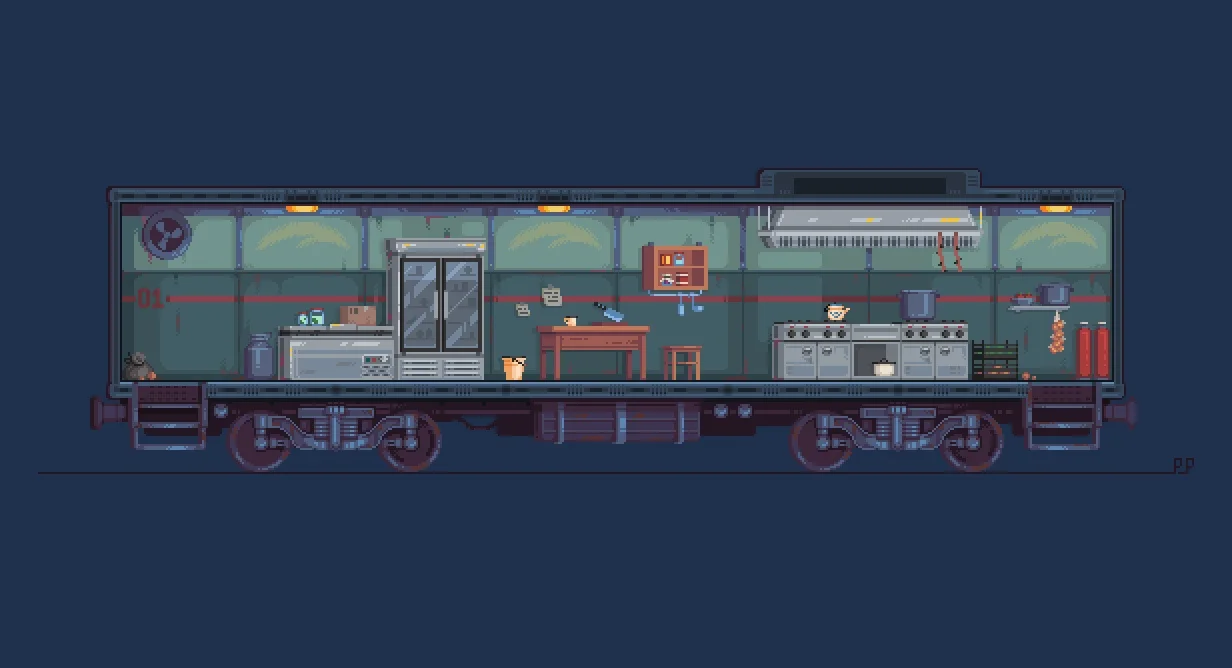
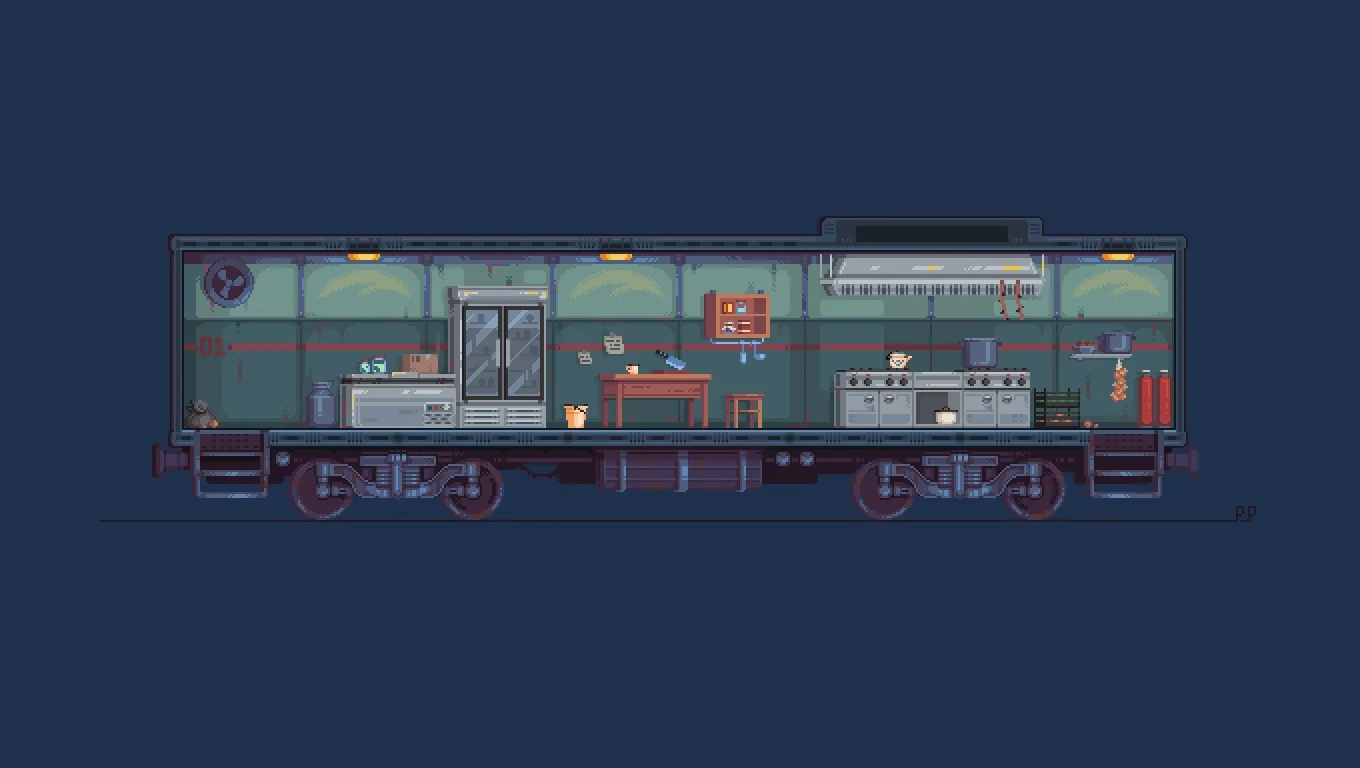
It's alive!

Changed region(s): [[0.0617, 0.2395, 0.9253, 0.7186], [0.9253, 0.6886, 0.9562, 0.7186]]

diff --git a/Game/MainWindow.xaml b/Game/MainWindow.xaml
@@ -6,7 +6,7 @@
         xmlns:local="clr-namespace:Game"
         xmlns:renderer="clr-namespace:Game.Renderer"
         mc:Ignorable="d"
-        Title="MainWindow" Height="450" Width="800"
+        Title="MainWindow" Height="768" Width="1360"
         SizeChanged="Window_SizeChanged"
         Loaded="Window_Loaded"
         KeyDown="OnKeyDownHandler">

diff --git a/Game/Renderer/GameRenderer.cs b/Game/Renderer/GameRenderer.cs
@@ -1,4 +1,5 @@
 using Game.Logic;
+using Game.Models;
 using System;
 using System.Collections.Generic;
 using System.IO;
@@ -17,6 +18,9 @@ namespace Game.Renderer
         IGameModel model;
         IGameControl control;
         Size size;
+        Brush WagonBrush => new ImageBrush(new BitmapImage(new Uri(model.GetLevelPath(), UriKind.RelativeOrAbsolute)));
+        Player player => model.GetPlayer();
+        Brush PlayerBrush => player!=null ? new ImageBrush(new BitmapImage(new Uri(player.TexturePath, UriKind.RelativeOrAbsolute))) : null;
         public void SetupLogic(GameLogic logic)
         {
             this.model = logic;
@@ -28,16 +32,16 @@ namespace Game.Renderer
             switch (c)
             {
                 case controls.UP:
-
+                    control.PlayerJump();
                     break;
                 case controls.DOWN:
-
+                    control.PlayerCrouch();
                     break;
                 case controls.LEFT:
-
+                    control.PlayerMoveLeft();
                     break;
                 case controls.RIGHT:
-
+                    control.PlayerMoveRight();
                     break;
                 case controls.ATTACK:
 
@@ -58,11 +62,11 @@ namespace Game.Renderer
             
             base.OnRender(drawingContext);
             
-            if (model!=null && size.Width>50 && size.Height>50)
+            if (player!=null&&model!=null && size.Width>50 && size.Height>50)
             {
             
-                drawingContext.DrawRectangle(model.WagonBrush, null,new Rect(0, 0, size.Width, size.Height));
-                
+                drawingContext.DrawRectangle(WagonBrush, null,new Rect(0, 0, size.Width, size.Height));
+                drawingContext.DrawRectangle(PlayerBrush, null, new Rect(player.X, player.Y, 90, 90));             
             }
         }
     }

diff --git a/Game/MainWindow.xaml.cs b/Game/MainWindow.xaml.cs
@@ -50,31 +50,37 @@ namespace Game
                 case Key.A:
                     {
                         renderer.PlayerControl(Renderer.controls.LEFT);
+                        renderer.InvalidateVisual();
                     }break;
                     
                 case Key.W:
                     {
                         renderer.PlayerControl(Renderer.controls.UP);
+                        renderer.InvalidateVisual();
                     }
                     break;
                 case Key.S:
                     {
                         renderer.PlayerControl(Renderer.controls.DOWN);
+                        renderer.InvalidateVisual();
                     }
                     break;
                 case Key.D:
                     {
                         renderer.PlayerControl(Renderer.controls.RIGHT);
+                        renderer.InvalidateVisual();
                     }
                     break;
                 case Key.Space:
                     {
                         renderer.PlayerControl(Renderer.controls.MELEE);
+                        renderer.InvalidateVisual();
                     }
                     break;
                 case Key.LeftShift:
                     {
                         renderer.PlayerControl(Renderer.controls.ATTACK);
+                        renderer.InvalidateVisual();
                     }
                     ;break;
                 default:

diff --git a/Game/Logic/GameLogic.cs b/Game/Logic/GameLogic.cs
@@ -16,11 +16,18 @@ namespace Game.Logic
         Map map;
         List<IEntity> entitys;
         int _lvl;
-        public Brush WagonBrush => new ImageBrush(new BitmapImage(new Uri(Path.Combine("Graphics", "wagons", "wagon"+_lvl+".png"), UriKind.RelativeOrAbsolute)));
 
         public string GetLevelPath()
         {
             return map.LevelPath;
+        }
+        public Player GetPlayer()
+        {
+            if (entitys[0]!=null)
+            {
+                return entitys[0] as Player;
+            }
+            return null;
         }
         public List<IEntity> GetEntities()
         {
@@ -30,7 +37,14 @@ namespace Game.Logic
         {
             this._lvl = lvl;
             entitys=new List<IEntity>();
-            entitys.Add(new Player("Player",0,"TheOnlyOnePlayer",10,10,"player.png"));
+            entitys.Add(new Player("Player",
+                0,
+                "TheOnlyOnePlayer",
+                200,
+                200,
+                Path.Combine("Graphics","Player","player.png")
+                ));
+            map = new Map(Path.Combine("Graphics", "wagons", "wagon" + _lvl + ".png"));
         }
         public void TimeStep()
         {
@@ -46,7 +60,7 @@ namespace Game.Logic
         }
         public void PlayerJump()
         {
-            entitys[0].Y+=20;
+            entitys[0].Y-=20;
         }
         public void PlayerCrouch()
         {

diff --git a/Game/Logic/IGameModel.cs b/Game/Logic/IGameModel.cs
@@ -1,9 +1,11 @@
-using System.Windows.Media;
+using Game.Models;
+using System.Windows.Media;
 
 namespace Game.Logic
 {
     internal interface IGameModel
     {
-        Brush WagonBrush { get; }
+        public string GetLevelPath();
+        public Player GetPlayer();
     }
 }
